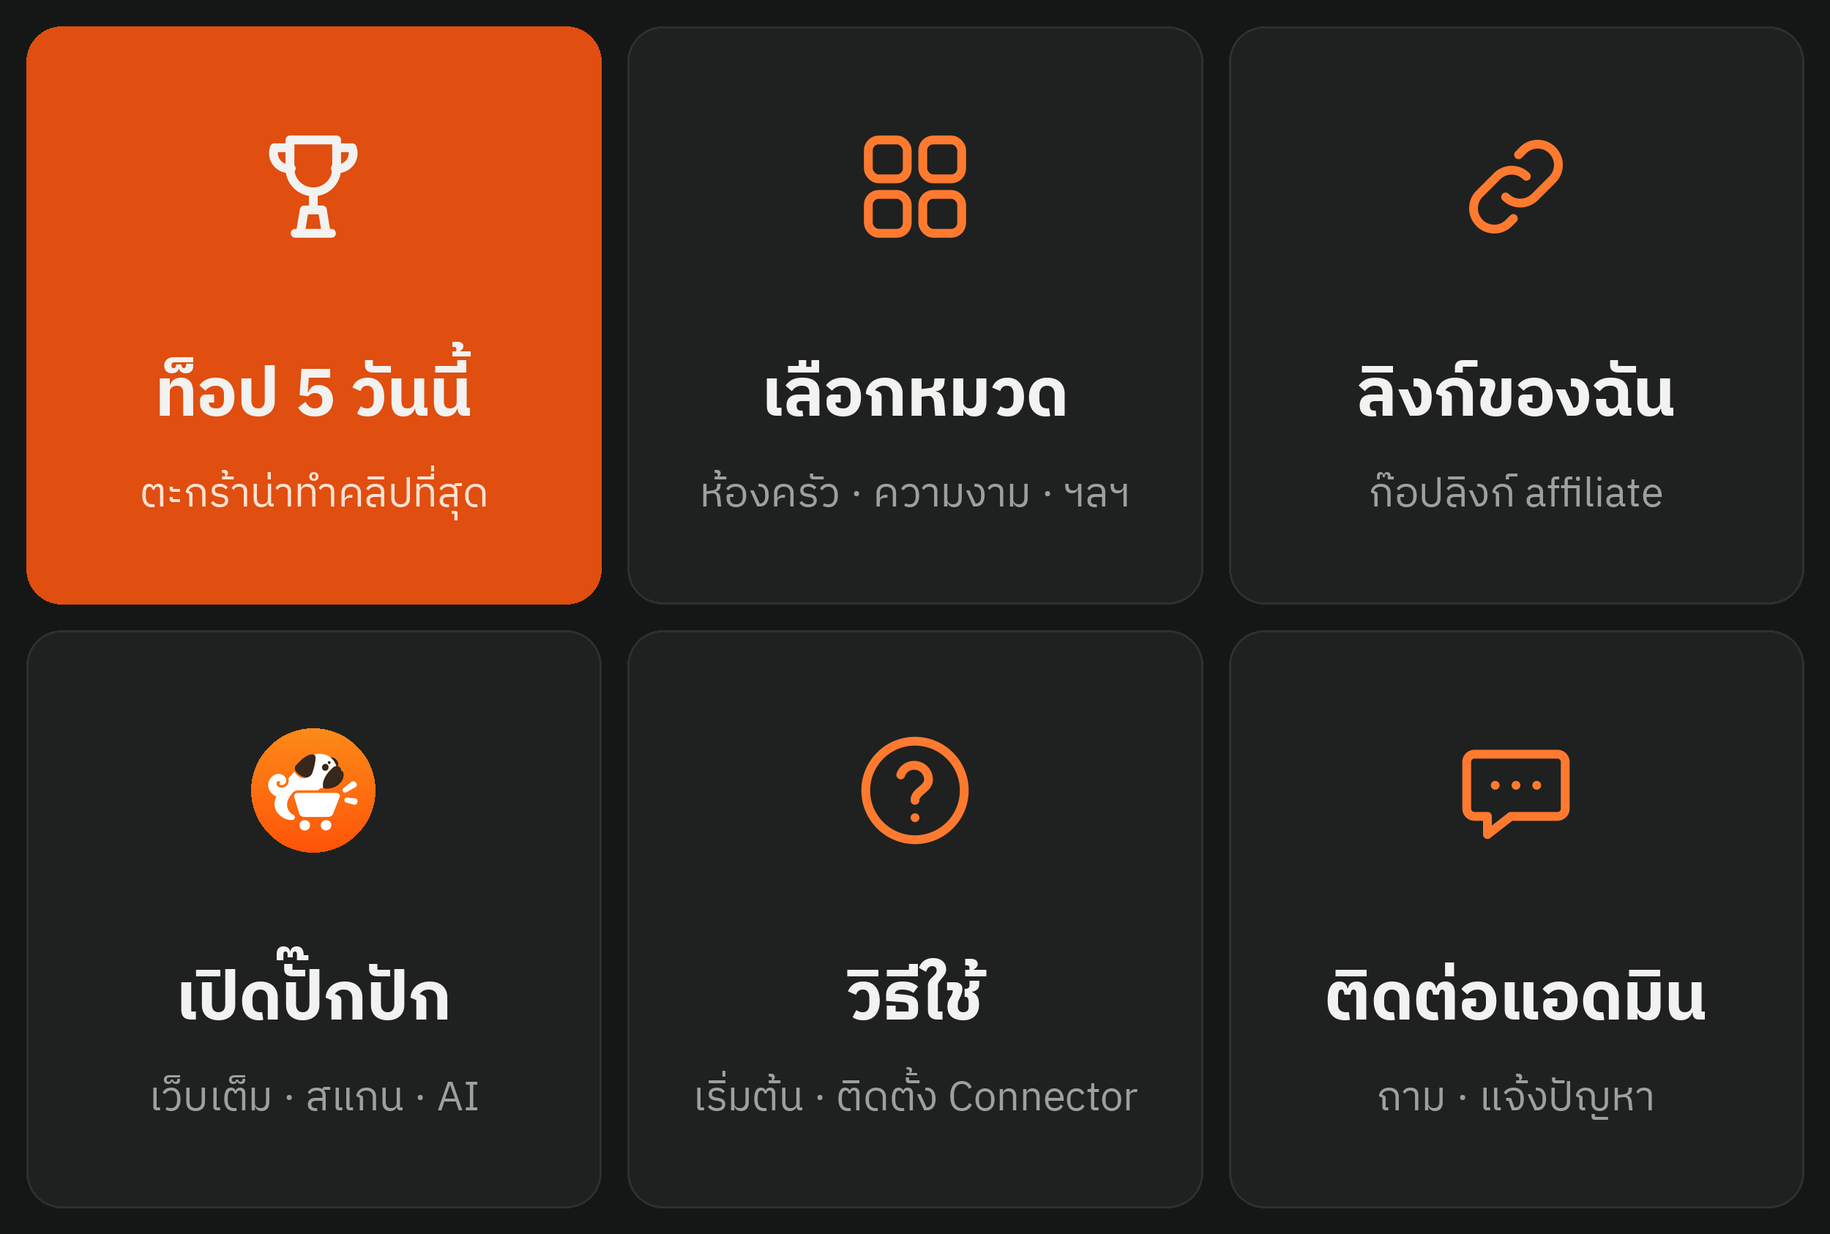
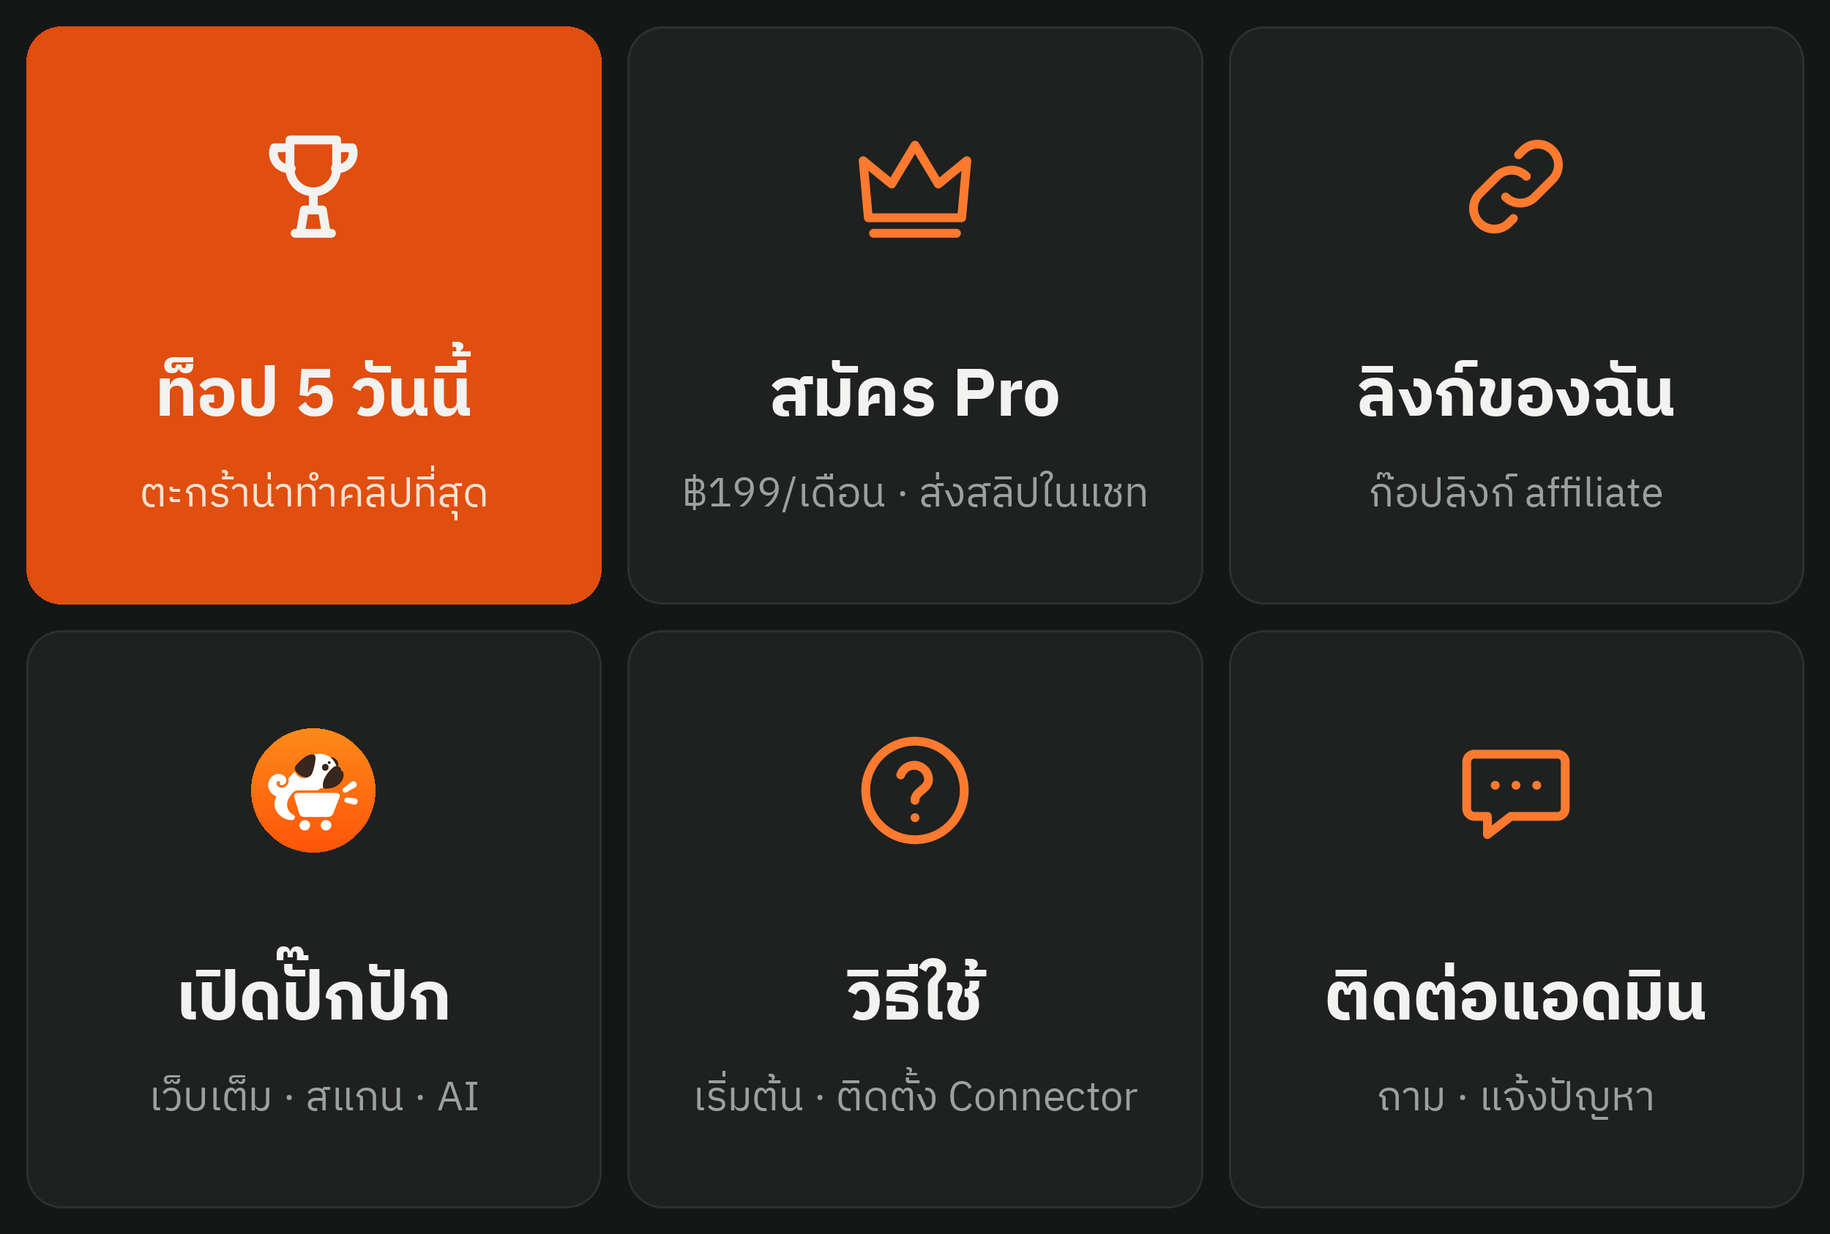
Buy Pro in LINE: plan picker, slip intake, admin notify + approve/reject in /admin, rich menu Pro button
Claude-Session: https://claude.ai/code/session_01D8Wn5N4uaQQV9mBXjJsa2V

Changed region(s): [[0.3744, 0.3701, 0.624, 0.4318], [0.4056, 0.2776, 0.5928, 0.3393], [0.468, 0.0925, 0.5304, 0.1851]]

diff --git a/web/app/api/line/webhook/route.js b/web/app/api/line/webhook/route.js
@@ -1,6 +1,6 @@
 // LINE bot webhook: members use ปั๊กปัก from the chat (top products, links, AI ideas).
 // The LINE userId equals the member id because Login and Messaging API share the ปั๊กปัก provider.
-import { verifySignature, reply, loading, LIFF_URL } from "../../../../lib/line";
+import { verifySignature, reply, push, loading, LIFF_URL } from "../../../../lib/line";
 import { getMember, saveMember, roster, seats, isAdmin } from "../../../../lib/auth";
 import { readJSON, writeJSON } from "../../../../lib/store";
 import { rank, effPrice } from "../../../../lib/score";
@@ -36,6 +36,24 @@ async function handle(e) {
   const uid = e.source.userId;
   const m = await getMember(uid);
 
+  // ---- buying Pro: choose plan → send slip → admin approves in /admin ----
+  if (m && m.status !== "revoked") {
+    if (e.type === "postback" && e.postback.data.startsWith("a=buy")) {
+      const plan = new URLSearchParams(e.postback.data).get("p") === "year" ? "year" : "month";
+      m.pendingOrder = { plan, at: Date.now() };
+      await saveMember(m);
+      return reply(e.replyToken, payInfo(plan));
+    }
+    if (e.type === "message" && e.message.type === "image" && m.pendingOrder && !m.pendingOrder.slipAt) {
+      m.pendingOrder.slipAt = Date.now();
+      await saveMember(m);
+      notifyAdmins(m).catch(() => {});
+      return reply(e.replyToken, text(`ได้รับสลิปแล้ว ขอบคุณครับ 🙏
+แอดมินกำลังตรวจสอบ เปิดสิทธิ์ Pro ${m.pendingOrder.plan === "year" ? "1 ปี" : "1 เดือน"} แล้วจะแจ้งในแชทนี้ทันที`));
+    }
+    if (e.type === "message" && e.message.type === "text" && /^(อัปเกรด|อัพเกรด|ซื้อ|สมัคร pro|ต่ออายุ|pro$|แพ็ก|ราคา)/i.test(e.message.text.trim())) return reply(e.replyToken, buyCard(m));
+  }
+
   if (!m || m.status !== "active") return reply(e.replyToken, await gate(m, e.type === "follow"));
   if (e.type === "follow") return reply(e.replyToken, text(`ยินดีต้อนรับกลับ คุณ${m.name} 🐶\nพิมพ์ "ท็อป" เพื่อดูตะกร้าที่น่าทำคลิปที่สุด หรือกดปุ่มด้านล่าง`, HELP_QR()));
 
@@ -68,8 +86,7 @@ async function handle(e) {
   const t = e.message.text.trim();
 
   if (/^(วิธีใช้|ช่วยเหลือ|help)/i.test(t)) return reply(e.replyToken, howto());
-  if (/^(อัปเกรด|อัพเกรด|pro|แพ็ก|ราคา)/i.test(t)) return reply(e.replyToken, upgrade(m, pro));
-  if (!pro && /^(ลิงก์|ลิ้ง|link)/i.test(t)) return reply(e.replyToken, upgrade(m, pro, "ลิงก์ affiliate อัตโนมัติเป็นฟีเจอร์ Pro"));
+  if (!pro && /^(ลิงก์|ลิ้ง|link)/i.test(t)) return reply(e.replyToken, buyCard(m, "ลิงก์ affiliate อัตโนมัติเป็นฟีเจอร์ Pro"));
   if (/^(ติดต่อแอดมิน|แอดมิน)/.test(t)) return reply(e.replyToken, text("รับเรื่องแล้วครับ พิมพ์รายละเอียดทิ้งไว้ได้เลย แอดมินจะตอบกลับในแชทนี้ 🙏"));
   if (!all.length) return reply(e.replyToken, { type: "flex", altText: "ยังไม่มีข้อมูลตะกร้า", contents: card("ยังไม่มีข้อมูลตะกร้า", "สแกนหมวดแรกบนคอมที่ติดตั้ง Connector ก่อน แล้วกลับมาพิมพ์ \"ท็อป\" ในแชทนี้ได้เลย", [openApp("ไปสแกนหมวดแรก")]) });
 
@@ -101,7 +118,7 @@ async function gate(m, isFollow) {
   if (m?.status === "waitlist") {
     const r = await roster();
     const pos = r.waitlist.indexOf(m.id) + 1;
-    return { type: "flex", altText: "อยู่ในคิว Early Access", contents: card("คุณอยู่ในคิว Early Access", `ลำดับที่ ${pos || "-"} · เมื่อมีที่ว่าง ปั๊กปักจะเปิดสิทธิ์ให้ แล้วใช้งานในแชทนี้ได้ทันที`, [openApp("ดูสถานะ")]) };
+    return { type: "flex", altText: "อยู่ในคิว Early Access", contents: card("คุณอยู่ในคิว Early Access", `ลำดับที่ ${pos || "-"} · เมื่อมีที่ว่าง ปั๊กปักจะเปิดสิทธิ์ให้ หรือสมัคร Pro เพื่อใช้ได้ทันทีไม่ต้องรอคิว`, [{ type: "button", style: "primary", color: "#FE6A0E", height: "sm", action: { type: "message", label: "สมัคร Pro ใช้ได้ทันที", text: "อัปเกรด Pro" } }, openApp("ดูสถานะ")]) };
   }
   if (m?.status === "revoked") return text("บัญชีนี้ถูกระงับการใช้งาน หากคิดว่าผิดพลาด พิมพ์ \"ติดต่อแอดมิน\" ได้เลยครับ");
   const r = await roster();
@@ -169,9 +186,45 @@ function bubble(p, n) {
   };
 }
 
-function upgrade(m, pro, why) {
-  if (pro) return text(`คุณใช้แพ็ก Pro อยู่แล้ว${m.proUntil ? ` ถึง ${new Date(m.proUntil).toLocaleDateString("th-TH", { day: "numeric", month: "short", year: "numeric" })}` : ""} 🎉\nต่ออายุหรือสอบถาม พิมพ์ "ติดต่อแอดมิน" ได้เลย`, HELP_QR());
-  return { type: "flex", altText: "อัปเกรดเป็น Pro", contents: card(why || "อัปเกรดเป็น Pro", `• สแกนหมวดและคำค้นเองไม่จำกัด\n• ลิงก์ affiliate Top 20 อัตโนมัติ ก๊อปในแชทได้ทันที\n• AI ไอเดียคลิปวันละ 30 ตัว (Free 3)\n\n฿${PRICE.month}/เดือน หรือ ฿${PRICE.year.toLocaleString("en-US")}/ปี\nพิมพ์ "ติดต่อแอดมิน" แล้วแอดมินจะส่งช่องทางชำระเงินให้`, [openApp("ดูในปั๊กปัก")]) };
+const thDate = (t) => new Date(t).toLocaleDateString("th-TH", { day: "numeric", month: "short", year: "numeric" });
+
+// Plan picker. Shown from the rich menu ("อัปเกรด Pro"), typed keywords, or Free-only features.
+function buyCard(m, why) {
+  const isProNow = isPro(m);
+  const head = why || (isProNow ? "ต่ออายุ Pro" : "อัปเกรดเป็น Pro");
+  const sub = isProNow
+    ? (m.proUntil ? `Pro ของคุณใช้ได้ถึง ${thDate(m.proUntil)} ต่ออายุแล้ววันจะบวกต่อจากเดิม` : "บัญชีนี้เป็น Pro ไม่หมดอายุ")
+    : "• สแกนหมวดและคำค้นเองไม่จำกัด\n• ลิงก์ affiliate Top 20 อัตโนมัติ ก๊อปในแชทได้ทันที\n• AI ไอเดียคลิปวันละ 30 ตัว (Free 3)";
+  const opt = (label, price, note, p, primary) => ({
+    type: "box", layout: "horizontal", paddingAll: "12px", cornerRadius: "10px", backgroundColor: primary ? "#FFF1E7" : "#F7F7F7",
+    action: { type: "postback", label, data: `a=buy&p=${p}`, displayText: `สมัคร Pro ${label}` },
+    contents: [
+      { type: "box", layout: "vertical", flex: 3, contents: [{ type: "text", text: label, weight: "bold", size: "md" }, { type: "text", text: note, size: "xs", color: "#888888" }] },
+      { type: "text", text: price, weight: "bold", size: "lg", color: "#E5480A", align: "end", gravity: "center", flex: 2 },
+    ],
+  });
+  return { type: "flex", altText: head, contents: {
+    type: "bubble",
+    body: { type: "box", layout: "vertical", spacing: "md", contents: [
+      { type: "text", text: head, weight: "bold", size: "lg", wrap: true },
+      { type: "text", text: sub, size: "sm", color: "#666666", wrap: true },
+      { type: "text", text: "เลือกแพ็ก", size: "xs", color: "#999999", margin: "lg" },
+      opt("รายเดือน", `฿${PRICE.month}`, "ใช้ได้ 30 วัน", "month", false),
+      opt("รายปี", `฿${PRICE.year.toLocaleString("en-US")}`, "ใช้ได้ 1 ปี · ได้ฟรี 2 เดือน", "year", true),
+    ] },
+  } };
+}
+
+function payInfo(plan) {
+  const amount = plan === "year" ? PRICE.year : PRICE.month;
+  const how = process.env.PAYMENT_INFO || "แอดมินจะส่งเลขพร้อมเพย์ให้ในแชทนี้";
+  return text(`แพ็ก Pro ${plan === "year" ? "รายปี" : "รายเดือน"} ยอด ฿${amount.toLocaleString("en-US")}\n\n1) โอนผ่าน${how.startsWith("แอดมิน") ? "พร้อมเพย์" : ""}\n${how}\n2) ส่งรูปสลิปในแชทนี้ได้เลย\n\nแอดมินตรวจแล้วเปิดสิทธิ์ให้ทันที ระบบจะแจ้งในแชทนี้`);
+}
+
+async function notifyAdmins(m) {
+  const r = await roster();
+  const msg = text(`💰 มีสลิปใหม่\n${m.name} · Pro ${m.pendingOrder.plan === "year" ? "รายปี ฿" + PRICE.year.toLocaleString("en-US") : "รายเดือน ฿" + PRICE.month}\nตรวจสลิปในแชท OA แล้วกดอนุมัติที่ ${APP}/admin`);
+  await Promise.all(r.admins.map((id) => push(id, msg)));
 }
 
 function links(all) {

diff --git a/web/app/api/admin/route.js b/web/app/api/admin/route.js
@@ -1,6 +1,7 @@
 // Admin: list members, activate / move to waitlist / revoke.
 import { requireMember, isAdmin, roster, saveRoster, getMember, saveMember, seats } from "../../../lib/auth";
-import { planInfo, grantPro, TRIAL_DAYS } from "../../../lib/plan";
+import { planInfo, grantPro, TRIAL_DAYS, PRICE } from "../../../lib/plan";
+import { push } from "../../../lib/line";
 
 export const runtime = "nodejs";
 export const dynamic = "force-dynamic";
@@ -18,7 +19,7 @@ export async function GET(req) {
   const r = await roster();
   const ids = [...r.active, ...r.waitlist, ...(r.revoked || [])];
   const members = (await Promise.all(ids.map(getMember))).filter(Boolean).map((m) => ({
-    id: m.id, name: m.name, picture: m.picture, status: m.status, joinedAt: m.joinedAt, admin: r.admins.includes(m.id), aiToday: m.ai?.count || 0, aiDay: m.ai?.day || "", onboarding: m.onboarding?.done || [], ...planInfo(m),
+    id: m.id, name: m.name, picture: m.picture, status: m.status, joinedAt: m.joinedAt, admin: r.admins.includes(m.id), aiToday: m.ai?.count || 0, aiDay: m.ai?.day || "", onboarding: m.onboarding?.done || [], ...planInfo(m), pendingOrder: m.pendingOrder || null,
   }));
   return Response.json({ members, seats: seats(), active: r.active.length });
 }
@@ -26,9 +27,30 @@ export async function GET(req) {
 export async function POST(req) {
   const g = await guard(req);
   if (g.error) return g.error;
-  const { id, status, plan, days } = (await req.json().catch(() => ({}))) || {};
+  const { id, status, plan, days, approve, reject } = (await req.json().catch(() => ({}))) || {};
   const m = await getMember(String(id || ""));
   if (!m) return Response.json({ error: "ไม่พบสมาชิก" }, { status: 404 });
+  const thDate = (t) => new Date(t).toLocaleDateString("th-TH", { day: "numeric", month: "short", year: "numeric" });
+  if (approve || reject) {
+    const order = m.pendingOrder;
+    if (!order) return Response.json({ error: "ไม่มีคำสั่งซื้อที่รอตรวจ" }, { status: 400 });
+    m.pendingOrder = null;
+    if (approve) {
+      grantPro(m, order.plan === "year" ? 365 : 30);
+      m.payments = [...(m.payments || []), { plan: order.plan, amount: order.plan === "year" ? PRICE.year : PRICE.month, at: Date.now() }];
+      if (m.status !== "active") {
+        const r = await roster();
+        for (const k of ["active", "waitlist", "revoked"]) r[k] = (r[k] || []).filter((x) => x !== m.id);
+        r.active.push(m.id); m.status = "active";
+        await saveRoster(r);
+      }
+    }
+    await saveMember(m);
+    await push(m.id, { type: "text", text: approve
+      ? `เปิดสิทธิ์ Pro ให้แล้ว 🎉 ใช้ได้ถึง ${thDate(m.proUntil)}\nกด "ท็อป 5 วันนี้" ที่เมนูด้านล่างเพื่อเริ่มได้เลย`
+      : "สลิปยังตรวจสอบไม่ผ่าน รบกวนส่งสลิปใหม่ หรือพิมพ์รายละเอียดในแชทนี้ แอดมินจะช่วยดูให้ครับ" }).catch(() => {});
+    return Response.json({ ok: true });
+  }
   if (plan) {
     if (plan === "pro") grantPro(m, days === null ? null : Number(days) || 30);
     else if (plan === "free") { m.plan = "free"; m.proUntil = null; }

diff --git a/web/app/admin/page.js b/web/app/admin/page.js
@@ -38,6 +38,7 @@ export default function Admin() {
           <span><b className="num">{stats.pro}</b> Pro</span>
           <span><b className="num">{stats.free}</b> Free</span>
           <span><b className="num">{stats.wait}</b> รอคิว</span>
+          {data.members.some((m) => m.pendingOrder?.slipAt) && <span className="stat-alert"><b className="num">{data.members.filter((m) => m.pendingOrder?.slipAt).length}</b> สลิปรอตรวจ</span>}
           <span>Early Access เหลือ <b className="num">{Math.max(0, data.seats - data.active)}</b>/{data.seats}</span>
         </div>
         <div className="list">
@@ -46,7 +47,7 @@ export default function Admin() {
             <div key={m.id} className="mrow">
               {m.picture ? <img className="avatar" src={m.picture} alt="" referrerPolicy="no-referrer" /> : <span className="avatar" />}
               <div className="mrow-main">
-                <div className="mrow-name">{m.name}{m.admin && <span className="tag">เจ้าของ</span>}{m.status !== "active" && <span className={"tag" + (m.status === "waitlist" ? " b" : "")}>{STATUS[m.status]}</span>}</div>
+                <div className="mrow-name">{m.name}{m.pendingOrder && <span className={"tag order" + (m.pendingOrder.slipAt ? " slip" : "")}>{m.pendingOrder.slipAt ? "ส่งสลิปแล้ว" : "เลือกแพ็กแล้ว รอสลิป"} · {m.pendingOrder.plan === "year" ? "รายปี" : "รายเดือน"}</span>}{m.admin && <span className="tag">เจ้าของ</span>}{m.status !== "active" && <span className={"tag" + (m.status === "waitlist" ? " b" : "")}>{STATUS[m.status]}</span>}</div>
                 <div className="mrow-sub">
                   สมัคร {short(m.joinedAt)} · เริ่มต้น {m.onboarding.length}/4{m.status === "active" && m.onboarding.length < 4 ? ` (ติดที่ ${nextStep(m.onboarding)})` : ""} · AI วันนี้ {m.aiToday}/{m.limits?.aiPerDay}
                 </div>
@@ -58,6 +59,13 @@ export default function Admin() {
                 </div>
               )}
               {!m.admin ? <button className={"btn act-btn" + (openId === m.id ? " on" : "")} aria-expanded={openId === m.id} onClick={() => setOpenId(openId === m.id ? null : m.id)}>จัดการ</button> : <span />}
+              {m.pendingOrder && (
+                <div className="act-row order-row">
+                  <button className="btn primary" onClick={() => set(m.id, null, { approve: true })}>อนุมัติ · เปิด Pro {m.pendingOrder.plan === "year" ? "1 ปี" : "30 วัน"}</button>
+                  <button className="btn" onClick={() => set(m.id, null, { reject: true })}>สลิปไม่ผ่าน</button>
+                  <span className="hint">ดูสลิปในแชท LINE OA ก่อนกดอนุมัติ ระบบจะแจ้งลูกค้าในแชทให้เอง</span>
+                </div>
+              )}
               {openId === m.id && (
                 <div className="act-row">
                   {m.status === "active" && <>

diff --git a/web/app/api/admin/richmenu/route.js b/web/app/api/admin/richmenu/route.js
@@ -10,7 +10,7 @@ const APP = process.env.APP_URL || "https://pakpak-two.vercel.app";
 const W = 2500, H = 1686, PAD = 36, GAP = 36;
 const cw = (W - 2 * PAD - 2 * GAP) / 3, ch = (H - 2 * PAD - GAP) / 2;
 const msg = (text) => ({ type: "message", label: text.slice(0, 20), text });
-const ACTIONS = [msg("ท็อป"), msg("หมวด"), msg("ลิงก์"), { type: "uri", label: "เปิดปั๊กปัก", uri: LIFF_URL }, msg("วิธีใช้"), msg("ติดต่อแอดมิน")];
+const ACTIONS = [msg("ท็อป"), msg("อัปเกรด Pro"), msg("ลิงก์"), { type: "uri", label: "เปิดปั๊กปัก", uri: LIFF_URL }, msg("วิธีใช้"), msg("ติดต่อแอดมิน")];
 
 export async function POST(req) {
   const { member, error } = await requireMember(req);
@@ -23,7 +23,7 @@ export async function POST(req) {
     const x = Math.round(c * (W / 3)), y = Math.round(r * (H / 2));
     return { bounds: { x, y, width: Math.round(W / 3), height: Math.round(H / 2) }, action };
   });
-  const menu = { size: { width: W, height: H }, selected: true, name: "pakpak-main-v2", chatBarText: "เมนูปั๊กปัก", areas };
+  const menu = { size: { width: W, height: H }, selected: true, name: "pakpak-main-v3", chatBarText: "เมนูปั๊กปัก", areas };
 
   const old = await botFetch("richmenu/list").then((r) => r.json()).catch(() => ({ richmenus: [] }));
   const created = await botFetch("richmenu", { method: "POST", body: JSON.stringify(menu) }).then((r) => r.json());

diff --git a/web/app/globals.css b/web/app/globals.css
@@ -325,3 +325,6 @@ td input{width:84px;padding:5px 7px}
 .line-sep{width:1px;align-self:stretch;background:rgba(0,0,0,.12);margin:0 2px}
 .lp-plan-btn.pro{display:flex;align-items:center;justify-content:center;gap:10px}
 .lp-nav-login{display:inline-flex;align-items:center;gap:8px}
+.tag.order{background:var(--warn-soft);color:var(--warn)} .tag.order.slip{background:var(--good-soft);color:var(--good)}
+.order-row{align-items:center}
+.stat-alert{color:var(--good)} .stat-alert b{color:var(--good)}

diff --git a/web/lib/line.js b/web/lib/line.js
@@ -44,4 +44,5 @@ export async function botFetch(path, { data, headers, ...opt } = {}) {
 }
 
 export const reply = (replyToken, messages) => call("message/reply", { replyToken, messages: [].concat(messages).slice(0, 5) });
+export const push = (to, messages) => call("message/push", { to, messages: [].concat(messages).slice(0, 5) });
 export const loading = (chatId, seconds = 20) => call("chat/loading/start", { chatId, loadingSeconds: seconds });
